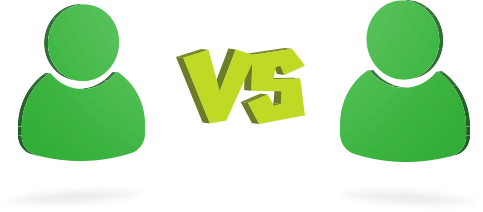
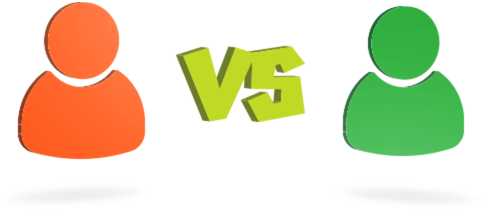
'个人PK部分风格调整完成'

diff --git a/src/component/PkItem.ts b/src/component/PkItem.ts
@@ -1,4 +1,3 @@
-
 class PkItem extends eui.Group {
     private data
 
@@ -14,22 +13,54 @@ class PkItem extends eui.Group {
         icon.x = (stageW - icon.width) / 2
         this.addChild(icon)
 
-        if (this.data.title) {
-            let titleBg = Util.createBitmapByName('pk_list_text_bg_png')
-            titleBg.x = (stageW - titleBg.width) / 2
-            titleBg.y = icon.height + 20
-            this.addChild(titleBg)
+        let titleBg = Util.createBitmapByName('pk_list_text_bg_png')
+        titleBg.x = (stageW - titleBg.width) / 2
+        titleBg.y = icon.height + 20
+        this.addChild(titleBg)
 
-            let title = new egret.TextField()
-            title.text = this.data.title
-            title.width = titleBg.width
-            title.height = titleBg.height
-            title.x = titleBg.x
-            title.y = titleBg.y - 5
-            title.verticalAlign = egret.VerticalAlign.MIDDLE
-            title.textAlign = 'center'
-            title.size = 30
-            this.addChild(title)
-        }
+        let title = new egret.TextField()
+        title.text = this.data.title
+        title.width = titleBg.width
+        title.height = titleBg.height
+        title.x = titleBg.x
+        title.y = titleBg.y - 5
+        title.verticalAlign = egret.VerticalAlign.MIDDLE
+        title.textAlign = 'center'
+        title.size = 30
+        this.addChild(title)
+    }
+}
+
+class PkItem2 extends eui.Group {
+    private data
+
+    constructor(data) {
+        super()
+        this.data = data
+        this.init()
+    }
+
+    private init() {
+        let stageW = ViewManager.getInstance().stage.stageWidth
+        let bg: egret.Bitmap = Util.createBitmapByName('pk_title_bg_png')
+        bg.x = (stageW - bg.width) / 2
+        this.width = bg.width
+        this.height = bg.height
+        this.addChild(bg)
+
+        let title = new egret.TextField()
+        title.text = this.data.title
+        title.width = 168
+        title.height = 63
+        title.x = 110
+        title.verticalAlign = 'middle'
+        title.textAlign = 'center'
+        title.size = 30
+        this.addChild(title)
+
+        let icon = Util.createBitmapByName(this.data.icon)
+        icon.x = 618
+        icon.y = 40
+        this.addChild(icon)
     }
 }

diff --git a/src/component/Topic.ts b/src/component/Topic.ts
@@ -264,7 +264,7 @@ class TopicItem extends egret.DisplayObjectContainer {
     private text: egret.TextField
 
     private option
-    private readonly BG_RES = ['option_normal_png', 'option_select_png', 'option_error_png', 'option_ok_png', 'option_ok_png']
+    private readonly BG_RES = ['option_normal_png', 'option_select_png', 'option_error_png', 'option_select_png', 'option_select_png']
 
     private readonly ICON_RES = { 2: "icon_err_png", 3: "icon_ok_png" }
 
@@ -276,7 +276,6 @@ class TopicItem extends egret.DisplayObjectContainer {
 
     private status
     private optionNum
-    private prefix
     private isTeamAnswer
 
     public constructor(optionNum, option, width = 633, isTeamAnswer?) {
@@ -323,14 +322,13 @@ class TopicItem extends egret.DisplayObjectContainer {
         text.size = size
         text.textAlign = egret.HorizontalAlign.CENTER
         text.verticalAlign = egret.VerticalAlign.MIDDLE
-        text.textColor = 0x79cd72
+        text.textColor = 0xfd8a22
         this.text = text
         this.addChild(text)
         
         // 答案前缀
         let prefix = new egret.TextField()
         prefix.text = this.optionNum
-        this.prefix = prefix
         prefix.width = 100
         prefix.height = this.height
         prefix.size = 40
@@ -380,11 +378,8 @@ class TopicItem extends egret.DisplayObjectContainer {
         if (this.status == status) return
         this.status = status
         this.bg.texture = RES.getRes(this.BG_RES[status])
-        if (status == 0) {
-            this.text.textColor = 0x79cd72
-        } else if (status == 2) {
-            this.text.textColor = 0x4d7d44
-            this.prefix.textColor = 0x99a496
+        if (status == TopicItem.STATUS_NORMAL || status == TopicItem.STATUS_ERROR) {
+            this.text.textColor = 0xfd8a22
         } else {
             this.text.textColor = 0xffffff
         }
@@ -400,12 +395,4 @@ class TopicItem extends egret.DisplayObjectContainer {
     public release() {
         this.removeChildren()
     }
-}
-
-
-/**
- * 填空题
- */
-class Blanks extends eui.Group {
-
 }

diff --git a/src/scene/pk/PkRecordScene.ts b/src/scene/pk/PkRecordScene.ts
@@ -52,7 +52,7 @@ class PkRecordScene extends Scene {
 
         SocketX.getInstance().sendMsg(NetEvent.PK_RECORDS, { page: this.page, pageSize: this.pageSize })
 
-        let border = Util.drawRoundRect(2, 0x4fb483, 0xFFFFFF, 650, this.stage.stageHeight - 300 + backButtonBg.height / 2, 80, 0)
+        let border = Util.drawRoundRect(2, Config.COLOR_MAINCOLOR, 0xFFFFFF, 650, this.stage.stageHeight - 300 + backButtonBg.height / 2, 80, 0)
         border.x = (this.stage.stageWidth - border.width) / 2
         border.y = 100
         this.addChildAt(border, 1)
@@ -118,7 +118,7 @@ class RecordItem extends eui.Group {
         fightPerson.x = 40
         fightPerson.verticalAlign = 'middle'
         fightPerson.size = size
-        fightPerson.textColor = 0x009649
+        fightPerson.textColor = Config.COLOR_MAINCOLOR
         this.addChild(fightPerson)
 
         let result = new egret.TextField()
@@ -128,11 +128,14 @@ class RecordItem extends eui.Group {
         result.size = size
         result.x = 360
         result.verticalAlign = 'middle'
-        result.textColor = 0x009649
-        if (this.data.pkResult.text == '失败') {
-            result.textColor = 0x747a7c
+        if (this.data.pkResult.text == '胜利') {
+            result.textColor = Config.COLOR_MAINCOLOR
+        } else if (this.data.pkResult.text == '失败') {
+            result.textColor = 0xe71f19
+        } else if (this.data.pkResult.text == '进行中') {
+            result.textColor = 0x52b584
         } else {
-            result.textColor = 0x006a3a
+            result.textColor = 0x666666
         }
         this.addChild(result)
 
@@ -143,7 +146,7 @@ class RecordItem extends eui.Group {
         date.size = size
         date.x = 450
         date.verticalAlign = 'middle'
-        date.textColor = 0x009649
+        date.textColor = Config.COLOR_MAINCOLOR
         date.textAlign = egret.HorizontalAlign.RIGHT
         this.addChild(date)
 

diff --git a/src/scene/pk/PkModelScene.ts b/src/scene/pk/PkModelScene.ts
@@ -3,14 +3,15 @@ class PkModelScene extends Scene {
         "1": {
             title: 'pk_modal_title_person_png',
             items: [
-                { icon: 'pk_auto_png', type: PkModel.AUTO },
-                { icon: 'pk_friend_png', type: PkModel.FRIEND }]
+                { icon: 'pk_auto_png', type: PkModel.AUTO, title: '自动匹配' },
+                { icon: 'pk_friend_png', type: PkModel.FRIEND, title: '邀请好友' }
+            ]
         },
         "2": {
             title: 'pk_modal_title_team_png',
             items: [
-                { icon: 'pk_answer_png', type: PkModel.ANSWER },
-                { icon: 'pk_knowledge_png', type: PkModel.KNOW }
+                { icon: 'pk_answer_png', type: PkModel.ANSWER, title: '抢答赛' },
+                { icon: 'pk_knowledge_png', type: PkModel.KNOW, title: '知识赛' }
             ]
         }
     }
@@ -41,7 +42,7 @@ class PkModelScene extends Scene {
 
         let itemY = 400
         for (let data of this.data.items) {
-            let item = new PkItem(data)
+            let item = new PkItem2(data)
             this.addChild(item)
             item.y = itemY
             itemY += 200

diff --git a/src/scene/pk/PkInviteScene.ts b/src/scene/pk/PkInviteScene.ts
@@ -126,7 +126,7 @@ class PkInviteScene extends Scene {
         waitPic.y = 500
         this.addChild(waitPic)
 
-        let tip = new LineInfo(`等待好友进入挑战`)
+        let tip = new LineInfo(`等待好友进入挑战...`)
         this.addChild(tip)
     }
 
@@ -263,7 +263,7 @@ class PkInviteScene extends Scene {
         waitPic.y = 500
         this.addChild(waitPic)
 
-        let info = new LineInfo('等待对手24小时进入挑战')
+        let info = new LineInfo('等待对手24小时进入挑战...')
         this.addChild(info)
 
         let backButton = Util.createBitmapByName('pk_back_png')

diff --git a/src/component/VProgress.ts b/src/component/VProgress.ts
@@ -10,8 +10,8 @@ class VProgress extends eui.Group {
     }
 
     public init() {
-        this.width = 40
-        this.height = 430
+        this.width = 27
+        this.height = 315
 
         let bg = Util.createBitmapByName('pk_progress_bg_png')
         bg.width = this.width
@@ -20,7 +20,7 @@ class VProgress extends eui.Group {
 
         let thumb = Util.createBitmapByName('pk_thumb_pb_png')
         thumb.fillMode = egret.BitmapFillMode.REPEAT
-        thumb.height = 43
+        thumb.height = 31
         thumb.y = bg.height - thumb.height
         this.addChild(thumb)
 

diff --git a/src/Config.ts b/src/Config.ts
@@ -7,6 +7,6 @@ class Config {
     public static readonly COLOR_ORANGE = 0xF46C22
     public static readonly COLOR_YELLOW = 0xABBF11
     public static readonly COLOR_BLUE = 0x1570C7
-    public static readonly COLOR_MAINCOLOR = 0x36af38
+    public static readonly COLOR_MAINCOLOR = 0xF76925
     public static readonly DEBUG = false
 }
